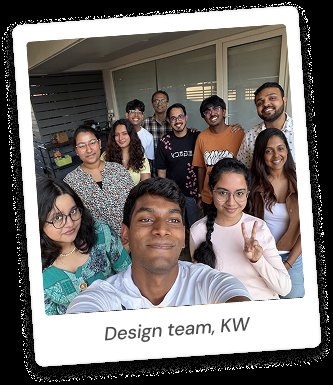
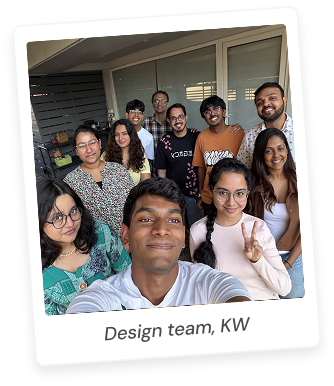
## Polaroid Fix + Footer + Timeline Spacing - Fixed the Kilowott timeline polaroid: restored the transparent PNG so it renders as a clean white-bordered polaroid with "Design team, KW" caption (the black background was from an earlier accidental RGB flatten). Matches the other timeline photos now. -
- Next Action Items:
  - **Swipe Hint**: Add a subtle "swipe →" cue under the mobile card decks so visitors know they can swipe
  - **View Prototype Link**: Add a "View full prototype" link inside each Figma modal that opens the live prototype in a new tab
  - **Contact Form**: Add a simple message form so visitors can reach Effie without leaving the site
  - **WhatsApp Tap**: Turn the phone number into a WhatsApp chat link so mobile visitors can message in one tap

Potential improvement: want me to add a WhatsApp icon next to the call icon so mobile visitors can start a chat with you instantly?

diff --git a/frontend/src/App.css b/frontend/src/App.css
@@ -126,7 +126,7 @@
 .tl-mobile { display: none; }
 
 /* ===== Life gallery ===== */
-.life { position: relative; z-index: 5; margin-top: -80px; padding: 56px 0 20px; text-align: center; background: transparent; }
+.life { position: relative; z-index: 5; margin-top: -20px; padding: 56px 0 20px; text-align: center; background: transparent; }
 .life h2 { font-family: var(--serif); font-style: italic; font-weight: 600; font-size: clamp(30px, 4vw, 52px); margin: 0 auto; line-height: 1.14; max-width: 760px; }
 .life h2 .hl { background: var(--pink); padding: 2px 14px; }
 .life-fan { position: relative; width: min(1000px, 96vw); height: 380px; margin: 12px auto 0; }
@@ -213,7 +213,7 @@
   /* Timeline — left-aligned vertical list, no images */
   .tl-sticky { padding: 34px 0 22px; }
   .tl-mobile { gap: 0; padding: 8px 26px 0; align-items: stretch; }
-  .tl-mobile .tl-head { margin-bottom: 14px; text-align: left; }
+  .tl-mobile .tl-head { margin-bottom: 34px; text-align: left; }
   .tl-mobile .tl-head h2 { font-size: 30px; white-space: normal; line-height: 1.12; }
   .tlm-item { display: block; position: relative; padding: 0 0 28px 26px; margin-left: 5px; border-left: 2px dotted #C9B79A; }
   .tlm-item:last-child { border-left-color: transparent; padding-bottom: 4px; }
@@ -221,7 +221,7 @@
   .tlm-photo { display: none !important; }
 
   /* Life gallery — swipe deck */
-  .life { margin-top: 0; padding: 34px 0 14px; }
+  .life { margin-top: 26px; padding: 34px 0 14px; }
   .life h2 { font-size: 30px; padding: 0 24px; line-height: 1.16; }
   .life-deck { margin-top: 22px; }
 

diff --git a/frontend/src/components/Contact.jsx b/frontend/src/components/Contact.jsx
@@ -11,7 +11,7 @@ const Contact = () => {
       </div>
       <section className="contact" id="contact" style={{ backgroundImage: 'url(/images/footer_sky.png)' }}>
         <p className="c-lead">
-          If you’re looking for a designer who’s curious, thoughtful, and always up for a challenge — let’s talk.
+          If you’re looking for a designer who’s curious, thoughtful, and always up for a challenge.
         </p>
         <a href="/resume.pdf" target="_blank" rel="noopener noreferrer">
           <button className="btn-terra" data-testid="contact-hire-me-btn">Hire me!</button>
